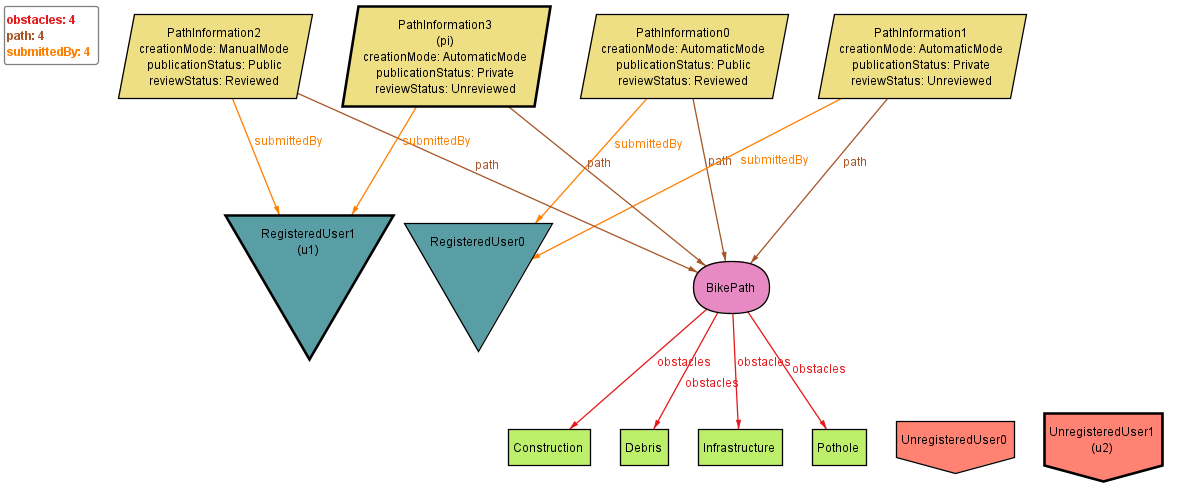
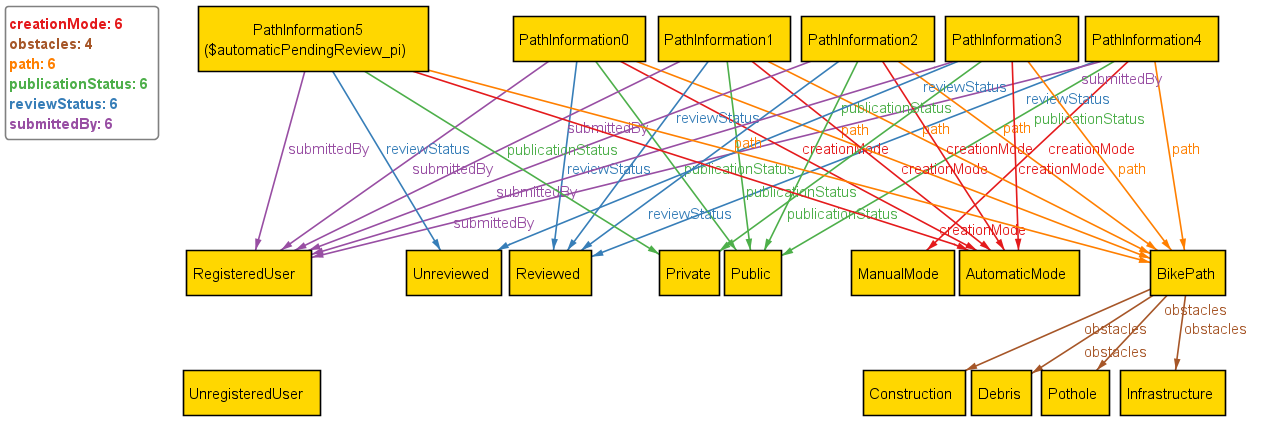
Modifications and explanations for alloy examples

diff --git a/RASD/Sections/Formal Analysis using Alloy.tex b/RASD/Sections/Formal Analysis using Alloy.tex
@@ -1,16 +1,17 @@
 \section{Formal Analysis using Alloy}
 
-%------------------------------------------------------------------------------------
-
-% alloy - model for bbp trip recording system 
+The formal analysis is split into two Alloy models to address two different correctness concerns of BBP. Separating the models keeps each one focused and avoids mixing trip-recording behavior with business rules governing path contribution and publication.
 
 \textbf{BestBikePath Trip Recording:}
 
-The BestBikePath (BBP) Trip Recording system is designed to record and manage bike trips for users. The system captures essential trip details, including start and end locations, timestamps, and user information. The primary goal is to ensure accurate trip recording while maintaining data integrity and user privacy.
-\lstinputlisting[language= Alloy]{Sections/Alloy/bbp_trip_recording.als}
+The BestBikePath (BBP) Trip Recording system is designed to record and manage bike trips for users. The system captures essential trip details, including start and end locations, timestamps, and user information. The goal for this first model is to ensure accurate trip recording while maintaining data integrity and user privacy.
 
+\lstinputlisting[
+    language= Alloy,
+    firstline=5, 
+    lastline=127
+]{Sections/Alloy/bbp_trip_recording.als}
 
-% result
 \textbf{Result:}
 
 The following figure shows the result of running the above Alloy model in the Alloy Analyzer. It shows that the assertions we defined hold true for the given scope.
@@ -18,38 +19,42 @@ The following figure shows the result of running the above Alloy model in the Al
 \includegraphics[scale = 0.8]{Images/Alloy/bbp_trip_recording_results.png}
 \newpage
 
-%------------------------------------------------------------------------------------
-
-% alloy - model for path publication system line 1 to line 113
 \textbf{BestBikePath Path Publication:}
 
-The BestBikePath (BBP) Path Publication system allows users to publish and share bike paths with the community. The system ensures that published paths are valid, non-overlapping, and accessible to
+The second model focuses on the rules governing the review, publication, and visibility of bike path information contributed by users. These rules capture system-wide constraints that determine how information becomes accessible to other users.
 
 \lstinputlisting[
-language= Alloy,
-firstline=1, 
-lastline=113,
+    language= Alloy,
+    firstline=6, 
+    lastline=69,
 ]{Sections/Alloy/bbp_path_publication.als}
 
-% result for assertion
 \textbf{Result:}
 
-\includegraphics[scale = 0.6]{Images/Alloy/bbp_path_publication_results.png}
+The following assertions validate the core constraints governing review and publication of path information, ensuring that unsafe or unreviewed data cannot be publicly exposed.
 
-% predicate 1 from line 117- 124
-\textbf{Predicate 1:}
+\lstinputlisting[
+    language= Alloy,
+    firstline=70, 
+    lastline=113,
+]{Sections/Alloy/bbp_path_publication.als}
+
+\includegraphics[width=0.95\textwidth]{Images/Alloy/bbp_path_publication_results.png}
+
+As we can see in the following examples, the three predicates defined in the model demonstrate the intended behavior of the BestBikePath Path Publication system, in which only safe and reviewed paths are made public, and unregistered users cannot contribute path information.
+
+In this first example, the configuration includes a path information object created in manual mode that is marked as reviewed and set to public visibility (\verb|PathInformation5|). This instance represents a successfully reviewed and published path, as described in UC7. At the same time, the figure shows examples of other objects which still represent valid system states that coexist with the published path, demonstrating that the model allows for a variety of states while enforcing the publication rules.
 
 \lstinputlisting[
     language= Alloy,
     firstline=117, 
     lastline=124, 
 ]{Sections/Alloy/bbp_path_publication.als}
-\includegraphics[scale = 0.5]{Images/Alloy/bbp_path_publication_example_1.png}
+
+\includegraphics[width=\textwidth]{Images/Alloy/bbp_path_publication_example_1.png}
 
 
-%predicate 2 from line 126 - 133
-
-\textbf{Predicate 2:}
+Similarly, in the next example, the configuration includes a path information object created in automatic mode that is marked as unreviewed and kept private (\verb|PathInformation5|). This instance represents the system state immediately after automatic data acquisition and before user confirmation, as described in UC8.
 
 \lstinputlisting[
     language= Alloy,
@@ -57,15 +62,15 @@ lastline=113,
     lastline=133, 
 ]{Sections/Alloy/bbp_path_publication.als}
 
-\includegraphics[scale = 0.4]{Images/Alloy/bbp_path_publication_example_2.png}
-%predicate 3 from line 135 - 145
+\includegraphics[width=\textwidth]{Images/Alloy/bbp_path_publication_example_2.png}
 
 
-\textbf{Predicate 3:}
+Finally, in the last example, we extend the previous analyses by focusing on information visibility, showing that unreviewed automatic contributions remain private and accessible only to their registered owner.
 
 \lstinputlisting[
     language= Alloy,
     firstline=135, 
     lastline=145, 
 ]{Sections/Alloy/bbp_path_publication.als}
-\includegraphics[scale = 0.4]{Images/Alloy/bbp_path_publication_example_3.png}
+
+\includegraphics[width=\textwidth]{Images/Alloy/bbp_path_publication_example_3.png}
